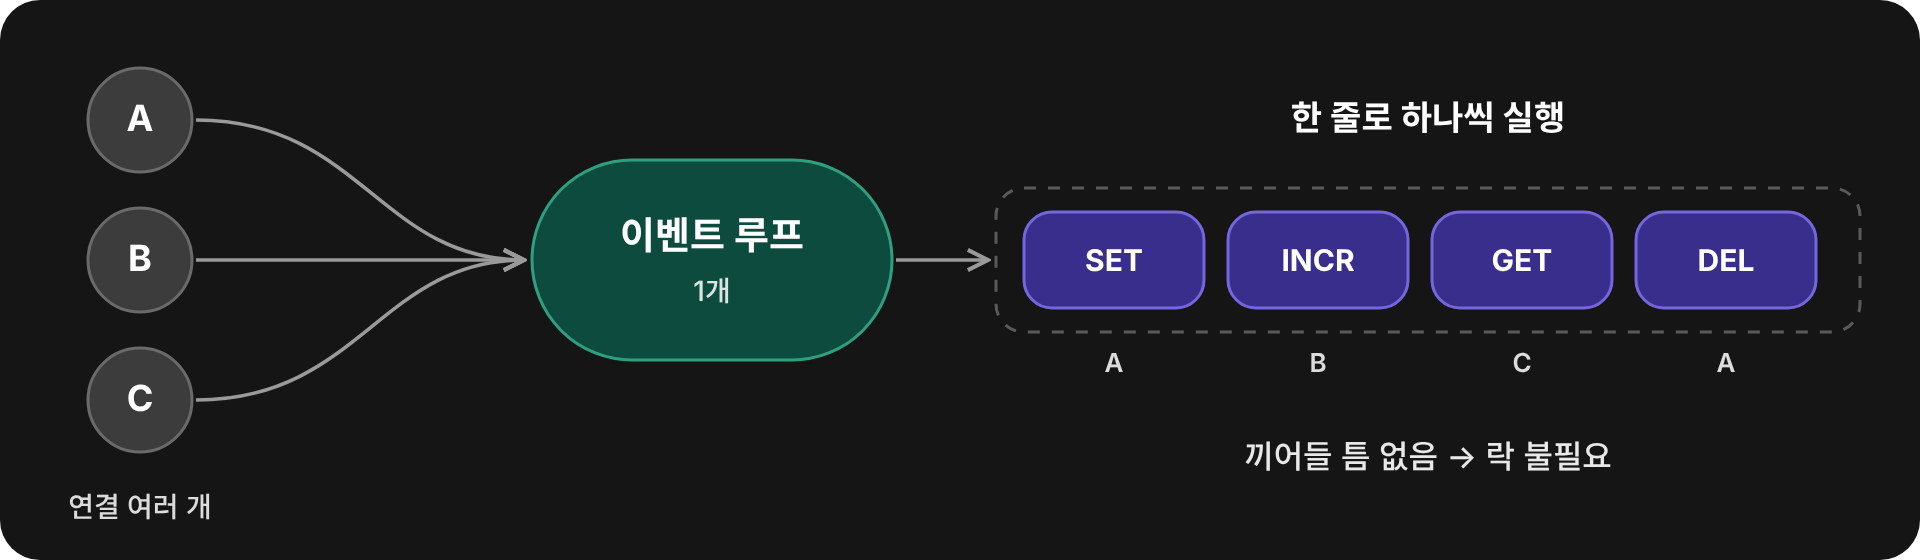
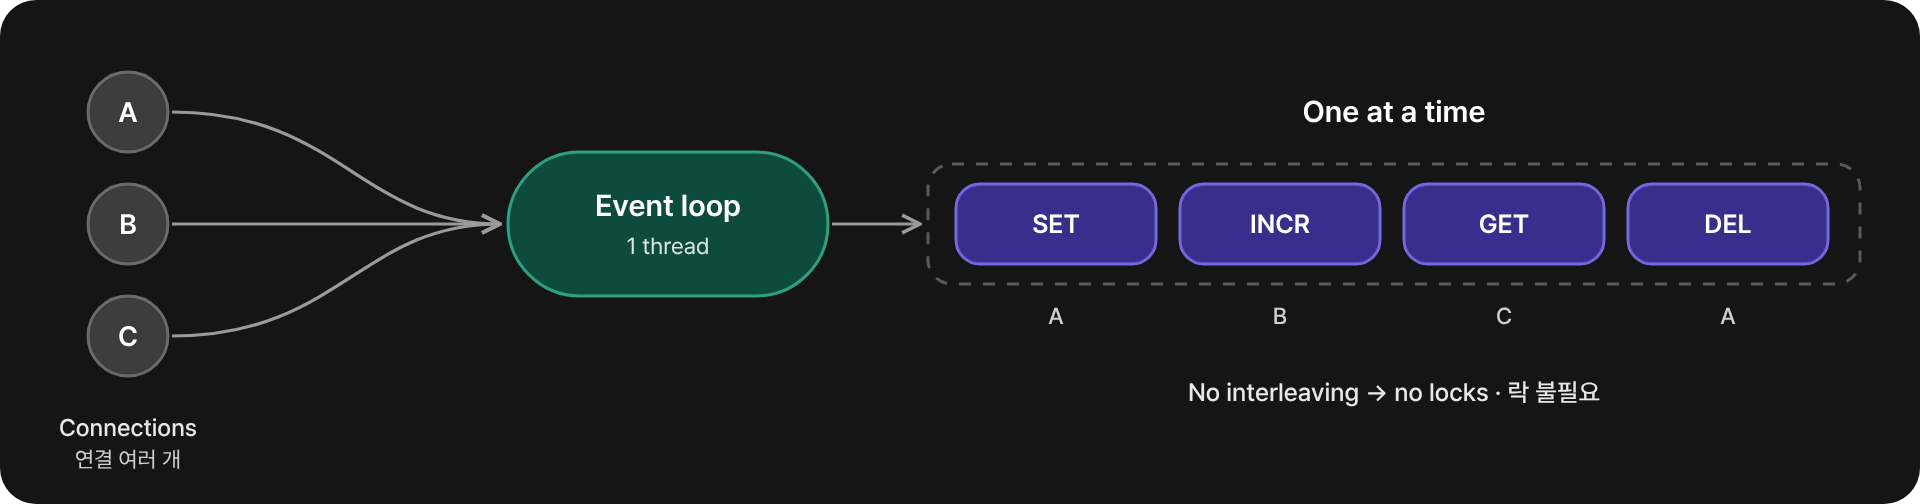
README 설계 설명과 서버 벤치마크 도해 갱신

diff --git a/readme.md b/readme.md
@@ -8,7 +8,7 @@
 
 ### Python 표준 라이브러리로 만든 단일 노드 Redis
 
-**연결은 여러 개, 실행은 한 줄로. 기록은 먼저, 만료는 읽을 때와 틈날 때.**
+**Many connections, one line of execution. Log first, expire lazily.**
 
 ![Python 3.9+](https://img.shields.io/badge/Python-3.9+-3776AB?logo=python&logoColor=white)
 ![dependencies](https://img.shields.io/badge/dependencies-0-2ea44f)
@@ -28,7 +28,7 @@
 
 ## Quick Start
 
-Python 3.9 이상, 외부 패키지 없음.
+Python 3.9+, 외부 패키지 없음.
 
 ```sh
 python3 -m miniredis                  # 127.0.0.1:6379, ./appendonlydir/에 저장
@@ -41,42 +41,42 @@ redis-cli HSET user:42 city Seoul     # (integer) 1
 redis-cli TTL visits                  # (integer) 60
 ```
 
-메모리 전용: `python3 -m miniredis -addr 127.0.0.1:6380 -aof ''`
+Memory only: `python3 -m miniredis -addr 127.0.0.1:6380 -aof ''`
 
 <br />
 
 ## Design Goals
 
-| 과제 | 해결 | 코드 |
+| Goal | Solution | Code |
 | --- | --- | --- |
-| **동시성** | 싱글 스레드. 이벤트 루프 1개 + `await` 없는 `execute` → 명령이 섞이지 않아 락 불필요 | [server.py](miniredis/server.py) · [engine.py](miniredis/engine.py) |
-| **만료된 값** | 접근 시 검사해 삭제 + 0.1초 루프가 20개씩 이어서 정리 | [engine.py](miniredis/engine.py) |
-| **외부 API** | Redis와 같은 RESP2 over TCP → `redis-cli` 그대로 사용. HTTP 캐시 예제 포함 | [resp.py](miniredis/resp.py) · [examples/](examples) |
-| **무효화** | `DEL` · `EXPIRE` · `SET` 덮어쓰기. AOF에 남아 재시작 후에도 유지 | [engine.py](miniredis/engine.py) |
-| **서버 다운 대비** | AOF에 먼저 기록 → 메모리 반영. base RDB + incr AOF + manifest로 복구 | [persist.py](miniredis/persist.py) |
+| **Concurrency** | Single thread. `asyncio` event loop 1개 + `await` 없는 `execute` → 명령이 섞이지 않아 lock 불필요 | [server.py](miniredis/server.py) · [engine.py](miniredis/engine.py) |
+| **Expired keys** | On access: 읽을 때 검사 후 삭제 · Every 0.1s: 20개씩 이어서 검사 | [engine.py](miniredis/engine.py) |
+| **API** | Redis와 같은 RESP2 over TCP → `redis-cli` 그대로 사용. HTTP cache 예제 포함 | [resp.py](miniredis/resp.py) · [examples/](examples) |
+| **Invalidation** | `DEL` · `EXPIRE` · `SET` 덮어쓰기. 모두 AOF에 남아 재시작 후에도 유지 | [engine.py](miniredis/engine.py) |
+| **Crash safety** | AOF first, memory second. base RDB + incr AOF + manifest로 복구 | [persist.py](miniredis/persist.py) |
 
 <br />
 
 ## Client Side
 
-### 요청 흐름
+### Request Flow
 
-![Client → 읽기 → 실행 → 응답](assets/how-it-works.png)
+![Client → Read → Execute → Reply](assets/how-it-works.png)
 
-1. **읽기** — 연결마다 RESP2 명령을 하나씩 읽음. 기다리는 동안 다른 연결 처리
-2. **실행** — 명령 하나를 끝까지 실행. 쓰기는 AOF에 먼저 기록 후 메모리 반영
-3. **응답** — RESP2로 돌려줌. 파이프라인은 보낸 순서대로
+1. **Read** — 연결마다 RESP2 명령을 하나씩 읽음. 기다리는 동안 다른 연결 처리
+2. **Execute** — 명령 하나를 끝까지 실행. 쓰기는 AOF에 먼저 기록 후 메모리 반영
+3. **Reply** — RESP2로 응답. pipeline은 보낸 순서대로
 
-### 지원 명령
+### Commands
 
-| 종류 | 명령 |
+| Type | Commands |
 | --- | --- |
-| 문자열 | `SET` (`EX`, `NX`) · `GET` · `INCR` · `MSET` · `MGET` |
-| 해시 | `HSET` · `HGET` |
-| 키 | `DEL` · `EXISTS` · `TYPE` · `EXPIRE` · `TTL` |
-| 서버 | `PING` · `BGREWRITEAOF` |
+| String | `SET` (`EX`, `NX`) · `GET` · `INCR` · `MSET` · `MGET` |
+| Hash | `HSET` · `HGET` |
+| Key | `DEL` · `EXISTS` · `TYPE` · `EXPIRE` · `TTL` |
+| Server | `PING` · `BGREWRITEAOF` |
 
-### API로 쓰기 — 캐시 예제
+### Use as an API — Cache Example
 
 SQLite 주문 8만 건 집계를 Mini Redis에 캐시하는 HTTP API.
 
@@ -92,116 +92,148 @@ DB가 바뀌면 `DEL`로 바로 무효화. Mini Redis가 꺼져 있으면 `X-Cac
 
 ## Engine Side
 
-### 전체 구조
+### Architecture
 
-![mini-redis: 접근 · 실행 · 보존 세 레이어와 0.1초 루프](assets/layers.png)
+![mini-redis: Access, Execute, Persist layers and a 0.1s background loop](assets/layers.png)
 
-| 레이어 | 역할 |
+| Layer | Role |
 | --- | --- |
-| ① 접근 | TCP 연결 · RESP2 읽기/쓰기 |
-| ② 실행 | 명령 검사 · 키 공간 읽기/쓰기 · 만료 판정 |
-| ③ 보존 | AOF 기록 · RDB 스냅샷 · 시작 시 복구 |
-| 0.1초 루프 | 만료 정리 · fsync · rewrite 조각 쓰기 |
+| ① Access | TCP 연결 · RESP2 읽기/쓰기 |
+| ② Execute | 명령 검사 · keyspace 읽기/쓰기 · 만료 판정 |
+| ③ Persist | AOF 기록 · RDB snapshot · 시작 시 복구 |
+| Every 0.1s | 만료 정리 · fsync · rewrite 조각 쓰기 |
 
-### 동시성 — 싱글 스레드
+### Concurrency — Single Thread
 
-![연결 A·B·C가 이벤트 루프 하나로 모여 한 줄로 실행](assets/single-thread.png)
+![Connections A, B, C meet in one event loop and run one at a time](assets/single-thread.png)
 
-연결은 여러 개, 실행은 한 줄. `await`는 소켓을 기다릴 때만 있고 `execute`는 동기 함수라 **명령 단위로 원자적**. `INCR`을 동시에 보내도 값이 꼬이지 않음. 실제 Redis도 명령 실행은 스레드 하나.
+연결은 여러 개, 실행은 한 줄. `await`는 socket I/O에만 있고 `execute`는 동기 함수라 **명령 단위로 atomic**. `INCR`을 동시에 보내도 값이 꼬이지 않음. 실제 Redis도 명령 실행은 thread 하나.
 
-### 키 공간 — HashTable
+### Keyspace — HashTable
 
-![hash(key)로 버킷을 정하고, 충돌하면 같은 칸에 연결, 3/4 차면 2배](assets/hashtable.png)
+![hash(key) picks a bucket; collisions chain in the same bucket; grows ×2 over 3/4 full](assets/hashtable.png)
 
-직접 구현한 [`HashTable`](miniredis/hashtable.py). 충돌은 같은 버킷에 `next`로 연결(chaining), 3/4 넘게 차면 버킷 2배. 해시의 필드는 Python `dict` 사용.
+직접 구현한 [`HashTable`](miniredis/hashtable.py). 충돌은 같은 bucket에 `next`로 연결(chaining), 3/4 넘게 차면 bucket 2배. hash의 field는 Python `dict` 사용.
 
-### 만료
+### Expiration
 
-![접근 시 검사, 0.1초 루프가 20개씩 이어서 검사](assets/expiry.png)
+![On access check, and a 0.1s loop that checks 20 keys per run](assets/expiry.png)
 
-- **접근 시 검사** — 읽을 때 만료됐으면 지우고 nil
-- **0.1초 루프** — 앞에서 20개씩 검사, 살아 있는 키는 뒤로 보내 다음 루프가 이어서 검사
+- **On access** — 읽을 때 만료됐으면 지우고 nil
+- **Every 0.1s** — 앞에서 20개씩 검사, 살아 있는 키는 뒤로 보내 다음 루프가 이어서 검사
 
-### 무효화
+### Invalidation
 
-| 명령 | 동작 | AOF 기록 |
+| Command | Effect | AOF |
 | --- | --- | --- |
 | `DEL k` | 즉시 삭제 | `DEL k` (있던 키만) |
 | `EXPIRE k s` | 기한 예약, 0 이하면 즉시 삭제 | `PEXPIREAT k <ms>` |
 | `SET k v` | 새 값으로 교체, TTL 해제 | `SET k v [PXAT <ms>]` |
 
-### 영속화
+### Persistence
 
-![쓰기: AOF 기록 → 메모리 반영 → +OK. 재시작: manifest → base.rdb + incr.aof 재생](assets/persistence.png)
+![Write: append to AOF, apply, reply. Restart: manifest, base.rdb + incr.aof replay](assets/persistence.png)
 
 Redis 7과 같은 `appendonlydir/` 구조.
 
 - **manifest** — 지금 읽을 파일 목록
-- **base.rdb** — 한 시점의 스냅샷
-- **incr.aof** — 스냅샷 이후 쓰기 기록
+- **base.rdb** — 한 시점의 snapshot
+- **incr.aof** — snapshot 이후 쓰기 기록
 
 rewrite 중에 꺼져도 manifest가 이전 파일을 가리켜 안전.
 
-| `-appendfsync` | fsync 시점 | 전원이 꺼지면 |
+| `-appendfsync` | fsync | On power loss |
 | --- | --- | --- |
 | `always` | 응답 전 매번 | 손실 없음 |
-| `everysec` (기본) | 약 1초마다 | 최대 약 1초 |
+| `everysec` (default) | 약 1초마다 | 최대 약 1초 |
 | `no` | OS에 맡김 | OS에 따라 |
 
 <br />
 
 ## Benchmark
 
-### 캐시 사용 전후
+![Cache 6.5×, 63k+ ops/s up to 256 connections, 0 lost updates, 85% speed with AOF, 9.1× faster restart](assets/bench-summary.png)
 
-주문 8만 건, 보고서 8개를 클라이언트 하나가 순환 요청. 요청마다 새 HTTP 연결, 응답은 SQLite 원본과 대조.
+<sub>All results · commit `c87d673` · Mac mini Linux VM (aarch64, 4 cores) · Python 3.10.12 · pipeline 없이 응답을 받은 뒤 다음 요청</sub>
 
-![캐시를 켜면 응답 시간 중앙값 85% 단축, 처리량 6.5배](assets/bench-cache.png)
+### Cache On vs Off
 
-| 처리 방식 | 요청 수 | 중앙값 | p95 | 초당 처리량 |
-| --- | ---: | ---: | ---: | ---: |
-| 캐시 끔 · SQLite 직접 집계 | 4,800 | 1.427 ms | 1.551 ms | 691.7건 |
-| 캐시 켬 · Mini Redis 적중 | 4,800 | **0.211 ms** | **0.253 ms** | **4,469.6건** |
+![Cache on: median latency 86% faster, 6.5× throughput](assets/bench-cache.png)
 
-<sub>commit `7cc4efa` · Mac mini Linux VM (aarch64, 4코어) · Python 3.10.12 · SQLite 3.37.2 · 800건 × 6라운드 · [결과 JSON](benchmarks/results/2026-11-17-7cc4efa-cache-api.json) · [측정 코드](benchmarks/cache_api.py)</sub>
+주문 8만 건, 보고서 8개를 순환 요청. 캐시 적중 시 응답 시간 중앙값 86% 감소, 처리량 6.5배.
+
+### Concurrent Connections
+
+![Throughput by connection count and an INCR atomicity check](assets/bench-concurrency.png)
+
+연결 16개부터 63.6k~69.1k ops/s로 포화되고 256개까지 떨어지지 않음. 늘어나는 건 대기 시간(p99)뿐. 256개 연결이 같은 키에 `INCR` 102,400번을 동시에 보내도 결과는 정확히 102,400.
+
+### Durability Cost
+
+![Memory only vs AOF everysec vs AOF always](assets/bench-durability.png)
+
+기본값 `everysec`는 메모리 전용 처리량의 85% 유지. `always`는 쓰기마다 fsync라 11%.
+
+### Restart After Rewrite
+
+![AOF size and restart time before and after rewrite](assets/bench-recovery.png)
+
+같은 키 20,000개를 10번씩 덮어쓴 SET 200,000건. rewrite 후 AOF 93% 감소, 재시작 9.1배 빠름.
 
 ```sh
 python3 -m benchmarks.cache_api --requests 800 --rounds 6
+python3 -m benchmarks.server
 ```
 
-### Redis 7과 비교
-
-같은 기기에서 `redis-benchmark`로 SET · GET 측정. 양쪽 모두 디스크 저장 끔.
-
-| 초당 처리량 | Mini Redis | Redis 7.0.15 | 차이 |
-| --- | ---: | ---: | ---: |
-| SET · 파이프라인 없음 | 17,989 | 104,493 | 5.8배 |
-| GET · 파이프라인 없음 | 19,912 | 106,045 | 5.3배 |
-| SET · 파이프라인 16 | 21,249 | 1,234,568 | 58배 |
-| GET · 파이프라인 16 | 24,612 | 1,587,302 | 64배 |
-
-하나씩 보내면 네트워크 왕복이 대부분이라 약 5배 차이. 파이프라인으로 몰아 보내면 실행 속도 차이(Python vs C)가 그대로 드러남.
-
-<sub>Linux x86_64, 2 vCPU · Python 3.13.18 · 연결 50개 · 10만 건 × 3회 중앙값 · [결과 JSON](benchmarks/results/2026-11-17-vs-redis-linux-x64.json) · [측정 코드](benchmarks/vs_redis.py)</sub>
-
-```sh
-python3 -m benchmarks.vs_redis       # redis-server, redis-benchmark 필요
-```
+<sub>[cache result JSON](benchmarks/results/2026-11-18-cache-api.json) · [server result JSON](benchmarks/results/2026-11-18-server.json) · [cache code](benchmarks/cache_api.py) · [server code](benchmarks/server.py)</sub>
 
 <details>
-<summary>해시 필드 저장소: dict vs 직접 만든 HashTable</summary>
+<summary>Raw numbers</summary>
 
 <br />
 
-필드 저장소를 `dict`(`9f67b74`)와 `HashTable`(`de7f275`)로 비교. 결과에 따라 `dict` 선택.
+| Cache | Requests | Median | p95 | Throughput |
+| --- | ---: | ---: | ---: | ---: |
+| off · SQLite | 4,800 | 1.514 ms | 1.645 ms | 646.2 req/s |
+| on · Mini Redis hit | 4,800 | 0.216 ms | 0.274 ms | 4,192.3 req/s |
 
-| 명령 (1회당) | dict | HashTable |
+| Connections | ops/s | p50 | p99 |
+| ---: | ---: | ---: | ---: |
+| 1 | 18,645 | 0.051 ms | 0.067 ms |
+| 4 | 52,205 | 0.073 ms | 0.088 ms |
+| 16 | 63,552 | 0.248 ms | 0.291 ms |
+| 64 | 64,870 | 0.985 ms | 1.074 ms |
+| 256 | 69,135 | 3.703 ms | 4.099 ms |
+
+| AOF policy | ops/s | p50 | p99 |
+| --- | ---: | ---: | ---: |
+| memory only | 50,564 | 1.263 ms | 1.395 ms |
+| everysec | 43,102 | 1.474 ms | 1.608 ms |
+| always | 5,513 | 11.573 ms | 16.101 ms |
+
+| Rewrite | AOF size | Restart |
 | --- | ---: | ---: |
-| `HSET` 새 필드 | **1.518 µs** | 2.842 µs |
-| `HSET` 기존 필드 | **1.505 µs** | 2.096 µs |
-| `HGET` 있는 필드 | **1.104 µs** | 1.392 µs |
+| before | 13,289,008 B | 824 ms |
+| after | 868,998 B | 90 ms |
 
-<sub>키 1,024개 × 필드 16개 · Apple M4 · macOS 15.3.2 · CPython 3.9.6 · 8라운드 중앙값 · [결과 JSON](benchmarks/results/hash-fields-m4-python39.json) · [측정 코드](benchmarks/hash_fields.py)</sub>
+<sub>median of 3 rounds × 3 s · 10,000 keys · 32 B values · SET/GET 50:50 (연결 수 테스트) · SET only, 64 connections (AOF 테스트)</sub>
+
+</details>
+
+<details>
+<summary>Hash fields: dict vs custom HashTable</summary>
+
+<br />
+
+field 저장소를 `dict`(`9f67b74`)와 `HashTable`(`de7f275`)로 비교. 결과에 따라 `dict` 선택.
+
+| Command (per op) | dict | HashTable |
+| --- | ---: | ---: |
+| `HSET` new field | **1.518 µs** | 2.842 µs |
+| `HSET` update | **1.505 µs** | 2.096 µs |
+| `HGET` hit | **1.104 µs** | 1.392 µs |
+
+<sub>1,024 keys × 16 fields · Apple M4 · macOS 15.3.2 · CPython 3.9.6 · median of 8 rounds · [result JSON](benchmarks/results/hash-fields-m4-python39.json) · [code](benchmarks/hash_fields.py)</sub>
 
 </details>
 
@@ -209,23 +241,13 @@ python3 -m benchmarks.vs_redis       # redis-server, redis-benchmark 필요
 
 ## FAQ
 
-**왜 멀티 스레드가 아닌가요?**<br />
-명령 하나는 몇 µs라 병목은 CPU가 아니라 네트워크 I/O. I/O는 이벤트 루프로 겹치고 실행은 한 줄로 세워 락과 경쟁 조건을 없앰.
+**Why not multi-thread?**<br />
+명령 하나는 몇 µs라 병목은 CPU가 아니라 network I/O. I/O는 event loop로 겹치고 실행은 한 줄로 세워 lock과 race condition을 없앰.
 
-**대신 포기한 것은?**<br />
-CPU 코어 하나만 사용. `HashTable` 확장이나 RDB 스냅샷 복사 중에는 다른 연결도 잠시 대기.
+**Trade-off?**<br />
+CPU core 하나만 사용. `HashTable` resize나 RDB snapshot 복사 중에는 다른 연결도 잠시 대기.
 
-**프로세스가 죽으면?**<br />
+**What if the process dies?**<br />
 AOF 기록은 응답 전에 OS로 넘어가 있어 남음. 기기 전원이 꺼질 때만 `everysec` 기준 마지막 약 1초 손실 가능.
 
-<br />
-
-## Test
-
-```sh
-python3 -m unittest discover -v
-```
-
-`redis-server`가 PATH에 있으면 실제 Redis와 응답을 비교하고, 서로의 RDB · AOF를 읽는지 검사.
-
-[자세히: 실행 흐름 · HashTable · 복구](docs/guide.md)
+[Docs: 실행 흐름 · HashTable · 복구](docs/guide.md)
